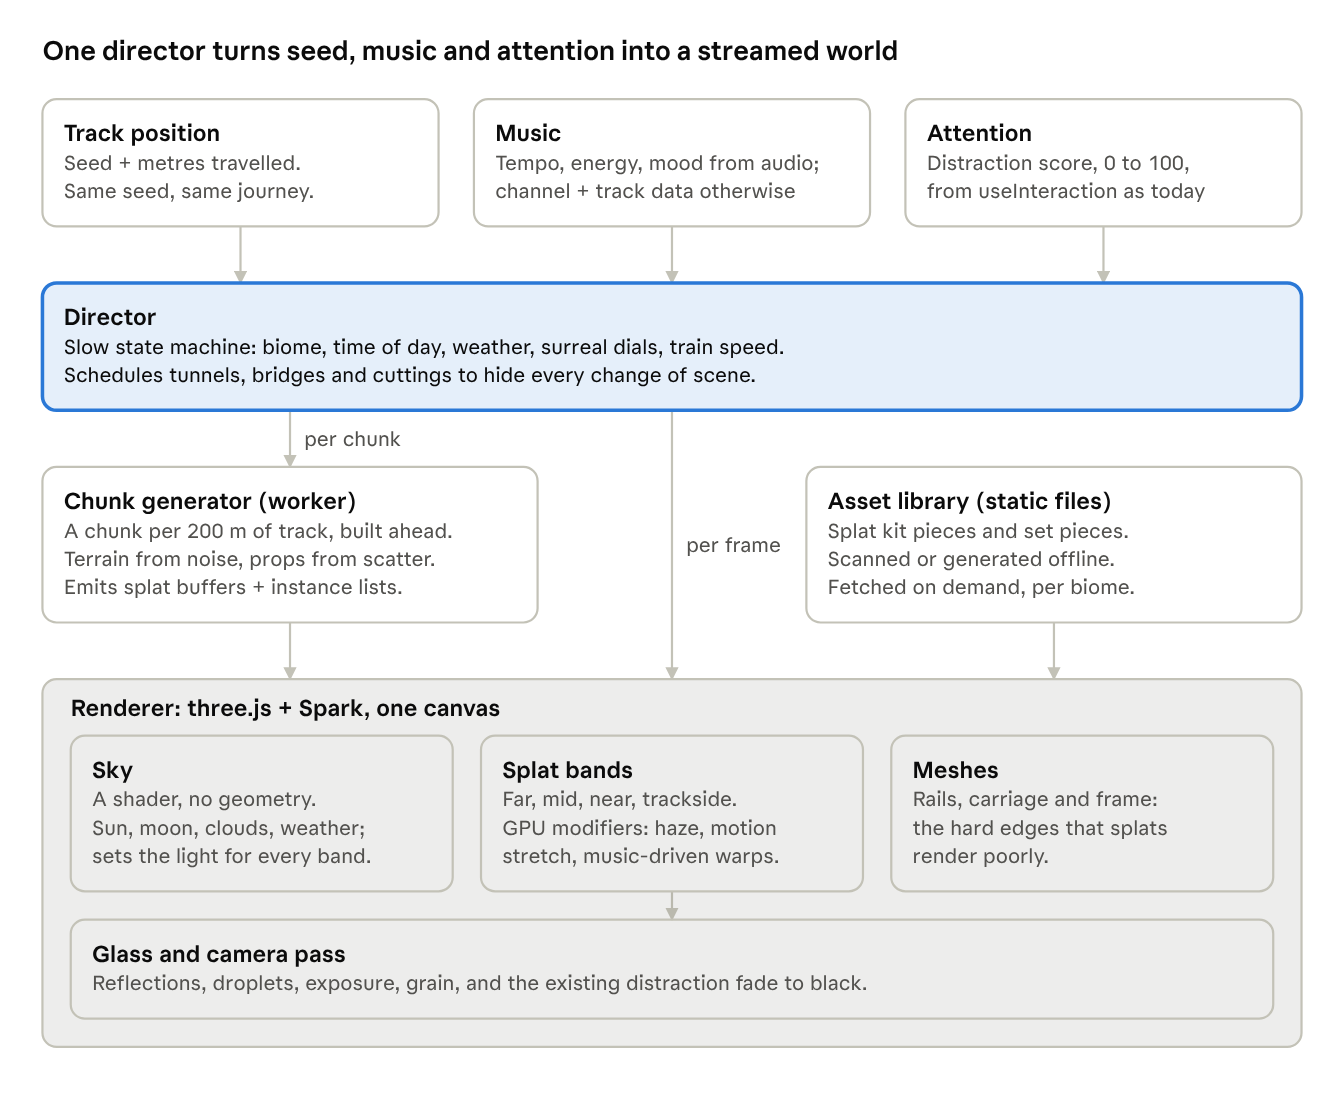
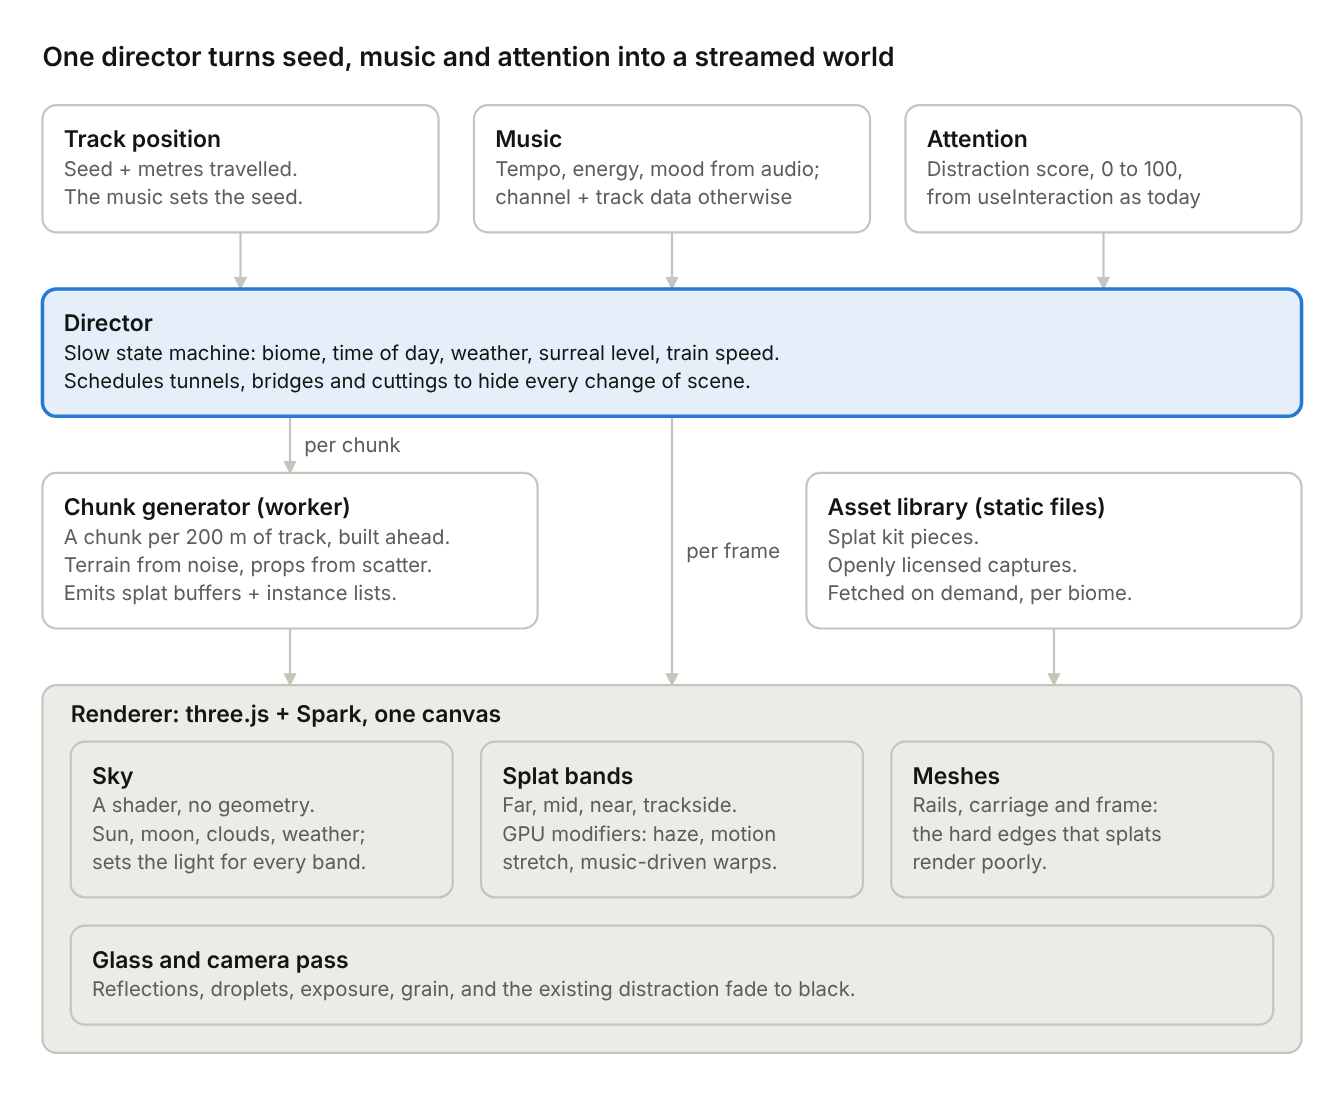
Record design decisions in the train window doc
Seven open questions were answered on 21 November:

- "Inside out" means a scene built to be seen from within.
- Ship two or three fixed surreal levels, not free dials.
- Show the carriage window frame.
- Phones are best effort.
- Assets are openly licensed where available, code-made otherwise;
  no AI-generated assets.
- Stay static on GitHub Pages for now.
- Music leads; no shared journeys by seed.

Update the plan, budgets and architecture diagram to match.

Claude-Session: https://claude.ai/code/session_0122HWxTYtVqfyF2UQrFxSBk

diff --git a/docs/procedural-train-window.md b/docs/procedural-train-window.md
@@ -1,6 +1,6 @@
 # Soma Rail: Procedural Train Window — Design Doc
 
-Draft of 19 November 2026, fact-checked the same day · committed copy of the [living doc](https://claude.ai/artifact/UeqzGYDoiugh3gkaXbHHqP)
+Draft of 19 November 2026, fact-checked the same day, decisions recorded 21 November · committed copy of the [living doc](https://claude.ai/artifact/UeqzGYDoiugh3gkaXbHHqP)
 
 ## Summary
 
@@ -82,18 +82,20 @@ What is free to break, each on a dial from 0 to 1:
 - **Time**: dusk to dawn in two minutes, seasons changing halfway across a field
 - **Logic**: the same station passing three times, each time slightly wrong
 
+The first version ships two or three fixed surreal levels, not free dials. Each level is one setting of all five dials, tuned by eye as a whole, and a channel's profile picks its level.
+
 ## Rendering approaches compared
 
 Gaussian splats are the right primary medium, used two ways at once, with a shader sky and a few meshes around them. No single technique covers both "photoreal" and "endless".
 
 | Approach | Realism | Surreal and reactive | Endless | Cost in the browser | Role here |
 | --- | --- | --- | --- | --- | --- |
-| Splat kit: captured or AI-generated pieces, placed by code | High; inherits the source | Good; any piece can warp or dissolve on the GPU | Arrangement is endless, the set of pieces is finite | Assets streamed per biome. A World Labs scene is 7.6 MB at 500,000 splats and 30 MB at 2 million. | Core of the near and mid bands |
-| Splats written by code from noise fields | Painterly, not photographic | Best; every parameter is ours | Fully | No download; worker time per chunk | Ground, water, far band, all "matter" effects |
+| Splat kit: openly licensed captured pieces, placed by code | High; inherits the source | Good; any piece can warp or dissolve on the GPU | Arrangement is endless, the set of pieces is finite | Assets streamed per biome, roughly 15 MB per million splats as SPZ | Near and mid bands, wherever a good open piece exists |
+| Splats written by code from noise fields | Painterly, not photographic | Best; every parameter is ours | Fully | No download; worker time per chunk | Every gap the kit leaves, plus ground, water, far band, all "matter" effects |
 | Raymarched shader world | High for sky, haze, water, distant terrain; poor for trees and buildings | Best | Fully | No download; heavy per pixel at high resolution | Sky and atmosphere |
 | Mesh scene with instanced props | Reads as a game without a lot of art | Moderate | Fully | Cheapest and most predictable | Rails, carriage, window frame |
 | Diffusion model running in the browser | High per frame | High | Frames do not hold parallax | GB-scale download, seconds per frame (estimate, not checked) | Not in v1 |
-| Worlds generated offline by a world model, shipped as splats | High, and surreal on request | Same as the kit | Bounded scenes, not strips | About $1.26 per world at build time (World Labs standard model); static files at run time | Where kit pieces and set pieces come from |
+| Worlds generated offline by a world model, shipped as splats | High, and surreal on request | Same as the kit | Bounded scenes, not strips | About $1.26 per world at build time (World Labs standard model); static files at run time | Not used: the kit is openly licensed or code-made |
 
 ### Can splats be procedurally generated?
 
@@ -101,7 +103,7 @@ Yes, at two levels, and the two give different looks.
 
 A splat is only a primitive: a position, three scales, a rotation, a colour and an opacity. Nothing requires it to come from a capture. What makes a splat scene photographic is where those numbers came from.
 
-- **Procedural arrangement.** Pieces whose splats came from photos or from a generative model keep their realism when code places, scales and tints them. This is how the view gets its photoreal half.
+- **Procedural arrangement.** Pieces whose splats came from photos keep their realism when code places, scales and tints them. This is how the view gets its photoreal half.
 - **Procedural matter.** Splats emitted by our own functions (scatter them on a noise terrain, colour them from a palette) look painterly, soft-edged and slightly unstable. That look is the surreal half, and it costs no download.
 
 Spark, the three.js splat renderer from World Labs, supports both, and both are confirmed by a running test:
@@ -127,7 +129,7 @@ How the blur is actually done differs from the first draft, which proposed a dyn
 
 ### On "inside out"
 
-I read this as a scene built to be seen from within rather than orbited. The side window is the extreme case: every object is seen from one side, across a narrow range of angles. That lets us go further than inside-out capture and use one-sided pieces, such as an image plus a depth map turned into a sheet of splats. Flagged under open questions in case you meant something else.
+I read this as a scene built to be seen from within rather than orbited. The side window is the extreme case: every object is seen from one side, across a narrow range of angles. That lets us go further than inside-out capture and use one-sided pieces, such as an image plus a depth map turned into a sheet of splats. Confirmed as the intended meaning on 21 November.
 
 ## Recommended architecture
 
@@ -139,12 +141,14 @@ Read top to bottom: the director is the only thing the inputs touch, and it talk
 
 The decisions that shape everything else:
 
-- **Splats are the common currency.** Kit pieces, code-made terrain and offline-generated set pieces all arrive as splats, so one set of GPU modifiers gives them the same haze, blur and warps.
-- **Chunks are a pure function of seed and index.** No world state is stored. A journey can be resumed, shared as a seed, and regenerated identically.
+- **Splats are the common currency.** Kit pieces and code-made terrain both arrive as splats, so one set of GPU modifiers gives them the same haze, blur and warps.
+- **Chunks are a pure function of seed, index and director state.** No world state is stored. The music sets the seed, so there is no share link in the first version; determinism is kept for resuming and debugging, and leaves sharing open later.
 - **Scene changes happen out of sight.** A tunnel, a cutting, a passing freight train or a bank of fog covers each swap of biome or asset set. These are the natural cuts of a train journey.
 - **Speed is the one fast coupling.** The world advances by speed times frame time, and the blur stretch uses the same number. Distraction lowers speed; nothing else needs to know.
 - **The camera stays at the origin.** The world scrolls past it and chunks are rebased, which avoids float precision trouble on a journey with no end.
 - **It slots in where the video was.** A `TrainWindow.vue` takes the same props as `VideoPlayer.vue`, and the renderer is imported after the Start click.
+
+The window frame is part of the picture. The view is framed by a visible carriage window, drawn as a mesh in front of the glass. It sets the composition, so it is there from spike 1.
 
 Two Spark details bear on these decisions:
 
@@ -243,8 +247,10 @@ WebGPU coverage is still uneven:
 | Splats in view | 1.5 million desktop, 750 thousand phones | My starting point. Spark's own defaults are 2.5 million desktop, 1.5 million iOS and 1 million Android, but our splats are all regenerated every frame, which Spark says becomes a bottleneck near 1 million on some systems. Spike 1 measures it. |
 | Chunk build time | Under 50 ms in the worker | A 200 m chunk is needed every 7 s at 100 km/h. The test built 150,000 splats in 68 ms on the main thread. |
 | First view | Under 5 s on broadband | Open on a code-made biome that needs no assets; stream kit pieces behind it. Spark adds 1.0 MB gzipped. |
-| Assets per biome | 30 MB or less | Four World Labs pieces at 500,000 splats each. Decides whether Pages is enough. |
+| Assets per biome | 30 MB or less | About 2 million splats of open-licence pieces as SPZ, at the 15 MB per million measured on World Labs' example files. Keeps several biomes inside GitHub Pages. |
 | Render resolution | Scale down to hold frame rate | Blur and haze hide a lower internal resolution well |
+
+Phones are best effort. The view is built and tuned on desktop, where the mouse-driven distraction mechanic already lives; on phones it lowers resolution and splat count, and music reactivity on iPhone is not promised.
 
 What needs watching:
 
@@ -259,7 +265,7 @@ What needs watching:
 
 The first risk is aesthetic, not technical: nobody knows yet whether a code-arranged splat world looks good sliding past a window. Spike 1 answers that before anything else is built.
 
-1. **The look.** One biome in three.js and Spark: code-made ground, five to ten free splat pieces scattered along it, a shader sky, the motion-stretch and haze, speed bound to the distraction score. Start from `docs/checks/spark-smoke`, which already has the scroll, haze and blur working.
+1. **The look.** One biome in three.js and Spark: code-made ground, five to ten openly licensed splat pieces scattered along it, a shader sky, a plain window frame, the motion-stretch and haze, speed bound to the distraction score. Build it at two surreal levels. Start from `docs/checks/spark-smoke`, which already has the scroll, haze and blur working.
    - Pass: a 20-second recording that someone takes for footage at first glance.
    - Also yields the real splat budget on a laptop and a phone, and settles the far-band precision and near-field opacity questions.
 2. **Audio on the other engines.** Add `crossorigin="anonymous"` with the retry-without-it fallback, then run `docs/checks/somafm-audio` by hand in Safari on a Mac, Safari on an iPhone and Firefox. An hour of work, done alongside spike 1.
@@ -267,32 +273,36 @@ The first risk is aesthetic, not technical: nobody knows yet whether a code-arra
    - Pass: memory stays flat and no visible pop over a 30-minute run.
 4. **Reactivity.** Masts on the beat from our own onset tracker, then CLAP scoring against biome descriptions, with channel profiles and track-change transitions as the fallback.
    - Pass: someone listening can tell the scenery belongs to the music without being told how.
-5. **Asset pipeline.** Produce a handful of pieces two ways, from a world model and from an image plus depth map, then compress them and judge them from the window. Settles asset size, cost and hosting.
-6. **The glass.** Frame, reflections, droplets, exposure and grain. Last because the technique is well known, though it is the largest single gain in polish.
+5. **Asset pipeline.** Find openly licensed splat captures and record each licence. Where none is good enough, make the piece in code or from an openly licensed photo plus a depth map. Compress them and judge them from the window. Settles which open sources are usable and what the kit weighs.
+6. **The glass.** The finished frame, reflections, droplets, exposure and grain. Last because the technique is well known, though it is the largest single gain in polish.
 
 Ship behind a `?view=generated` flag, with the video as the default until the generated view is clearly better.
 
-## Open questions
+## Decisions and open questions
 
-Answered by the checks:
+Decided on 21 November 2026:
+
+| Question | Decision | What it changes |
+| --- | --- | --- |
+| What "inside out" meant | A scene built to be seen from within | One-sided pieces are fair game |
+| Default surreal level | Two or three distinct levels in the first pass | Tune whole presets, not five free dials |
+| Carriage | Window frame visible | A frame mesh from spike 1; the view is no longer full-bleed |
+| Phones | Best effort | Desktop sets the budgets; iPhone audio is not on the critical path |
+| Assets | Openly licensed where available, code-made to fill gaps or where the open options are poor | No AI-generated assets, so no World Labs cost or terms question |
+| Hosting | Stay static on GitHub Pages for now | Revisit only if traffic nears 100 GB a month |
+| Seed or music | Music leads; no shared journeys | No seed in the URL in the first version |
+
+Answered earlier by the checks:
 
 - [x] Does SomaFM send CORS headers on its streams? Yes, on every server and format tested. No relay and no request to SomaFM is needed.
 - [x] Is a backend needed for audio? No.
 - [x] Should a copy of this doc live in the repo under `docs/`? Yes: this file.
 
-Still yours to decide, with what the checks add:
-
-- [ ] What did "inside out" mean to you? I took it as a scene built to be seen from within.
-- [ ] Are AI-generated assets acceptable? World Labs' API costs about $1.26 a world, and paying users own the output and may distribute it commercially. One clause in its terms, against storing API responses "beyond the duration specified in Documentation", is unclear for self-hosted files; I would ask them before shipping.
-- [ ] Must the app stay purely static? It can for now: audio needs no server and GitHub Pages covers a few biomes. The question returns only if traffic passes about 100 GB a month.
-- [ ] Are phones a first-class target or best effort? Spark's own phone budgets are healthy. The risk on iPhone is audio analysis, not rendering.
-- [ ] How surreal is the default? Two or three reference films or images would pin this down faster than any description.
-- [ ] Should the carriage be visible (window frame, interior reflections), or is the view full-bleed as it is now?
-- [ ] Should a journey be shareable as a seed in the URL? It conflicts with seeding scenery from the track: a shared seed only replays the same journey if the music is ignored. One of the two has to win.
-
-New, raised by the checks:
+Still open:
 
 - [ ] Does audio analysis work in Safari, on iOS and in Firefox? Spike 2.
+- [ ] Which openly licensed splat sources exist, and are they good enough from a train window? Not researched yet; spike 5.
+- [ ] What are the surreal levels called, and can the listener switch between them? Spike 1 proposes them.
 
 ## Sources
 
